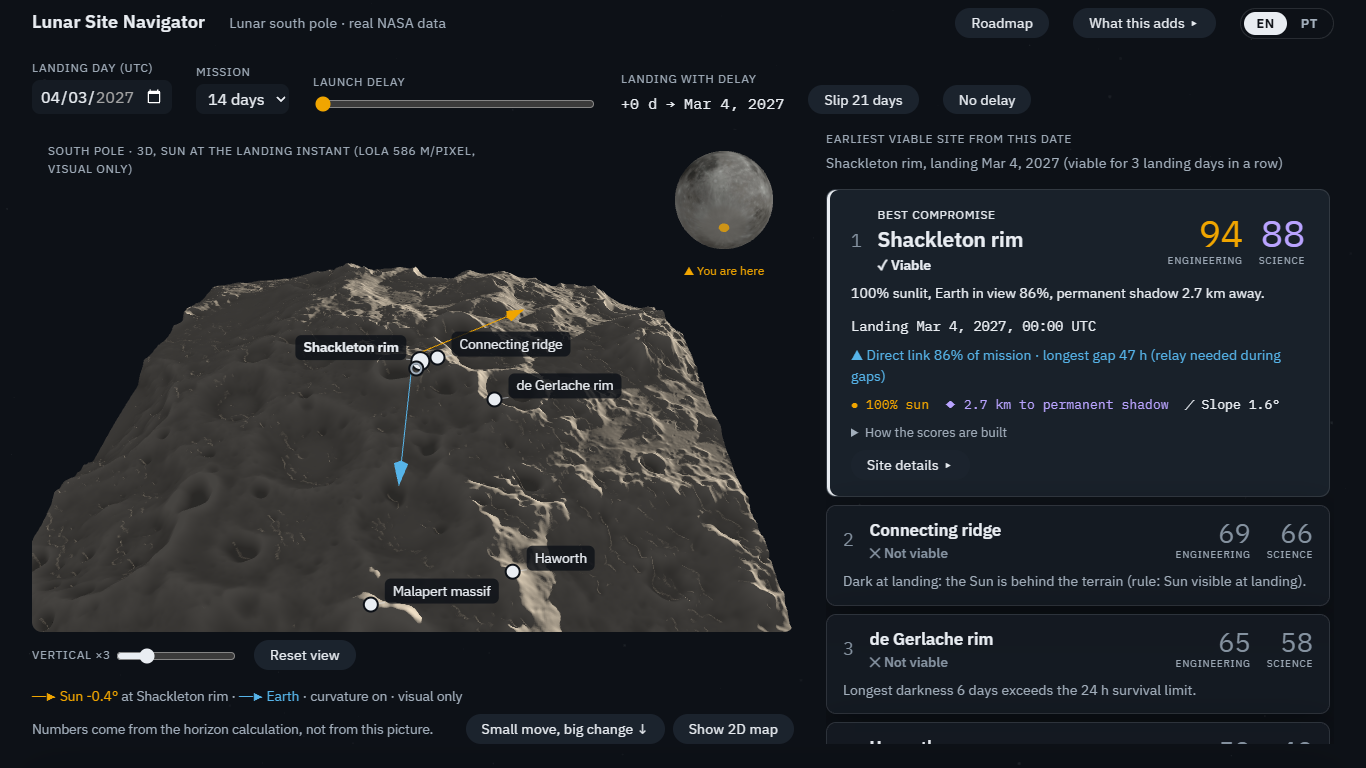
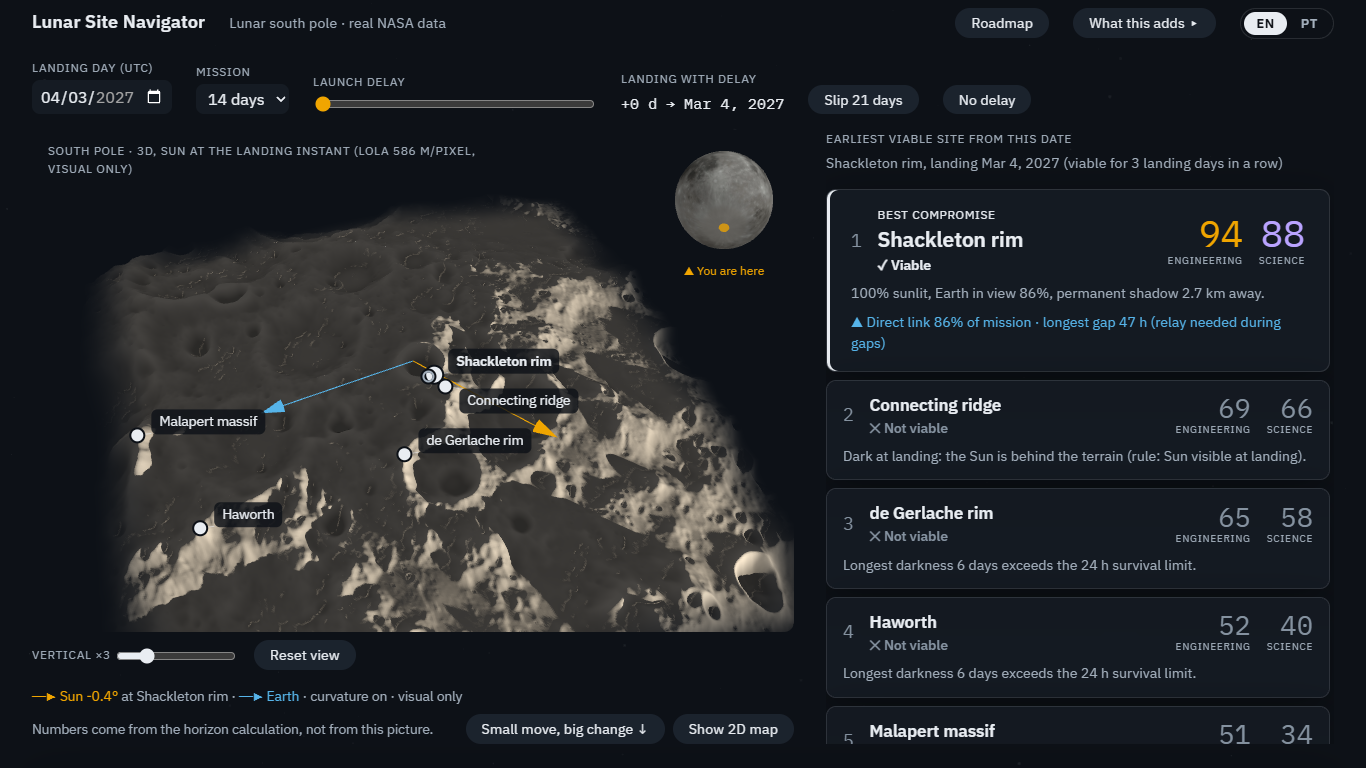
feat(web): best-card layers, map-card linking, animated slip; new screenshots (D49)
Visual review items 5-7, plus refreshed screenshots (1920x1080 and 1366x768,
EN and PT), including the panel after Slip 21 days and with a card hovered.

diff --git a/web/src/components/SouthPole3D.tsx b/web/src/components/SouthPole3D.tsx
@@ -54,12 +54,17 @@ const CAVITY_CONTRAST = 0.9;
 const EDGE_FADE_PX = 60;
 const LABEL_GAP_PX = 14;
 const GLOBE_PX = 116;
+/** Duration of the Sun/Earth direction change after a new date, ms. */
+const LIGHT_TRANSITION_MS = 900;
 
 interface Props {
   terrain: Terrain;
   sites: SiteSummary[];
   selectedId: string | null;
   bestId: string | null;
+  /** Site highlighted from a card or a marker (D49). */
+  hoveredId: string | null;
+  onHover: (id: string | null) => void;
   onSelect: (id: string) => void;
   sun: Vec3;
   earth: Vec3;
@@ -86,6 +91,8 @@ export function SouthPole3D(props: Props) {
     sites,
     selectedId,
     bestId,
+    hoveredId,
+    onHover,
     onSelect,
     sun,
     earth,
@@ -98,7 +105,6 @@ export function SouthPole3D(props: Props) {
   const labelRefs = useRef(new Map<string, HTMLButtonElement>());
   const dotRefs = useRef(new Map<string, HTMLSpanElement>());
   const lineRefs = useRef(new Map<string, SVGLineElement>());
-  const [hoveredId, setHoveredId] = useState<string | null>(null);
   const [exaggeration, setExaggeration] = useState(DEFAULT_EXAGGERATION);
   const exagRef = useRef(exaggeration);
 
@@ -326,21 +332,42 @@ export function SouthPole3D(props: Props) {
     renderRef.current();
   }, [exaggeration, terrain]);
 
-  // Light and arrows: Sun/Earth directions, elevation tangent scaled like the heights.
+  // Light and arrows: Sun/Earth directions, elevation tangent scaled like the heights. A new date
+  // (e.g. "Slip 21 days") turns them smoothly from the previous directions (D49); instant with
+  // reduced motion.
+  const shownDirs = useRef<{ sun: THREE.Vector3; earth: THREE.Vector3 } | null>(null);
   useEffect(() => {
     const st = stage.current;
     if (!st) return;
-    const s = exaggerateDirection(sun, exaggeration);
-    const e = exaggerateDirection(earth, exaggeration);
-    st.light.position.set(
-      s[0] * LIGHT_DISTANCE_KM,
-      s[1] * LIGHT_DISTANCE_KM,
-      s[2] * LIGHT_DISTANCE_KM,
-    );
-    st.light.intensity = SUN_INTENSITY;
-    st.sunArrow.setDirection(new THREE.Vector3(...s));
-    st.earthArrow.setDirection(new THREE.Vector3(...e));
-    renderRef.current();
+    const toSun = new THREE.Vector3(...exaggerateDirection(sun, exaggeration));
+    const toEarth = new THREE.Vector3(...exaggerateDirection(earth, exaggeration));
+    const apply = (s: THREE.Vector3, e: THREE.Vector3) => {
+      st.light.position.copy(s).multiplyScalar(LIGHT_DISTANCE_KM);
+      st.light.intensity = SUN_INTENSITY;
+      st.sunArrow.setDirection(s);
+      st.earthArrow.setDirection(e);
+      shownDirs.current = { sun: s.clone(), earth: e.clone() };
+      renderRef.current();
+    };
+    const from = shownDirs.current;
+    const reduce = window.matchMedia('(prefers-reduced-motion: reduce)').matches;
+    if (!from || reduce) {
+      apply(toSun, toEarth);
+      return;
+    }
+    const start = performance.now();
+    let frame = 0;
+    const step = (now: number) => {
+      const k = Math.min(1, (now - start) / LIGHT_TRANSITION_MS);
+      const ease = k * k * (3 - 2 * k);
+      apply(
+        from.sun.clone().lerp(toSun, ease).normalize(),
+        from.earth.clone().lerp(toEarth, ease).normalize(),
+      );
+      if (k < 1) frame = requestAnimationFrame(step);
+    };
+    frame = requestAnimationFrame(step);
+    return () => cancelAnimationFrame(frame);
   }, [sun, earth, exaggeration]);
 
   useEffect(() => {
@@ -413,10 +440,11 @@ export function SouthPole3D(props: Props) {
             s.purpose === 'sensitivity_demo' ? 'demo' : '',
             s.id === selectedId ? 'selected' : '',
             s.id === bestId ? 'best' : '',
+            s.id === hoveredId ? 'linked' : '',
           ].join(' ');
           const hover = {
-            onMouseEnter: () => setHoveredId(s.id),
-            onMouseLeave: () => setHoveredId(null),
+            onMouseEnter: () => onHover(s.id),
+            onMouseLeave: () => onHover(null),
           };
           return (
             <span key={s.id}>
@@ -438,8 +466,8 @@ export function SouthPole3D(props: Props) {
                 }}
                 className={`scene3d-label ${cls}${expanded(s.id) ? '' : ' collapsed'}`}
                 onClick={() => onSelect(s.id)}
-                onFocus={() => setHoveredId(s.id)}
-                onBlur={() => setHoveredId(null)}
+                onFocus={() => onHover(s.id)}
+                onBlur={() => onHover(null)}
                 aria-pressed={s.id === selectedId}
                 {...hover}
               >

diff --git a/web/src/components/SiteCard.tsx b/web/src/components/SiteCard.tsx
@@ -1,7 +1,9 @@
 /**
- * What: One site card, in two layers (D39). Compact: rank, name, verdict icon, the two scores and
- *   a one-line reason. Expanded (selected card): landing hour, next viable landing, direct-link
- *   line, key metrics, how each score is built and the details button. Display only.
+ * What: One site card, in two layers (D39, D49). Compact: rank, name, verdict icon, the two
+ *   scores and a one-line reason (the best compromise also shows its direct-link line).
+ *   Expanded (selected card): landing hour, next viable landing, direct-link line, key metrics,
+ *   how each score is built and the details button. Hover/focus highlights the matching marker
+ *   in the 3D view (onHover); Enter, Space or a click selects. Display only.
  * Roadmap stage: 5 — Interface (see docs/ROTEIRO.md).
  */
 import type { SiteEvaluation } from '../calc/evaluate';
@@ -19,8 +21,11 @@ interface Props {
   next: ViableWindow | null | undefined;
   rank: number;
   best: boolean;
-  /** Shows the second layer (the selected card, or the best compromise when none is). */
+  /** Shows the second layer (the selected card). */
   expanded: boolean;
+  /** Highlighted because its 3D marker is hovered (D49). */
+  linked: boolean;
+  onHover: (hovered: boolean) => void;
   onSelect: () => void;
   onOpen: () => void;
 }
@@ -32,6 +37,8 @@ export function SiteCard({
   rank,
   best,
   expanded,
+  linked,
+  onHover,
   onSelect,
   onOpen,
 }: Props) {
@@ -45,15 +52,25 @@ export function SiteCard({
     );
   }
   const { engineering, science, verdict: v, metrics: m, link } = evaluation;
-  const classes = ['card', 'glass', v.kind, best ? 'best' : '', expanded ? 'expanded' : ''].join(
-    ' ',
-  );
+  const classes = [
+    'card',
+    'glass',
+    v.kind,
+    best ? 'best' : '',
+    expanded ? 'expanded' : '',
+    linked ? 'linked' : '',
+  ].join(' ');
   const linkKey: MessageKey =
     link.kind === 'low'
       ? 'card.linkLow'
       : link.kind === 'gaps'
         ? 'card.linkGaps'
         : 'card.linkContinuous';
+  const linkLine = (
+    <p className={link.kind === 'low' ? 'link alert' : 'link earth'}>
+      {link.kind === 'low' ? '△' : '▲'} {t(linkKey, { p: link.fraction, g: link.longestGapHours })}
+    </p>
+  );
   return (
     <article
       className={classes}
@@ -65,9 +82,16 @@ export function SiteCard({
       tabIndex={0}
       aria-expanded={expanded}
       onClick={onSelect}
-      onFocus={(e) => {
-        if (e.target === e.currentTarget) onSelect();
+      onKeyDown={(e) => {
+        if (e.target === e.currentTarget && (e.key === 'Enter' || e.key === ' ')) {
+          e.preventDefault();
+          onSelect();
+        }
       }}
+      onMouseEnter={() => onHover(true)}
+      onMouseLeave={() => onHover(false)}
+      onFocus={() => onHover(true)}
+      onBlur={() => onHover(false)}
     >
       <div className="card-head">
         <span className="rank">{rank}</span>
@@ -92,6 +116,7 @@ export function SiteCard({
       <p className="reason" title={msg(v.reason)}>
         {msg(v.reason)}
       </p>
+      {(best || expanded) && linkLine}
       {expanded && (
         <div className="card-more">
           <p className="next">
@@ -104,10 +129,6 @@ export function SiteCard({
               {next ? t('card.next', { date: next.startMs, n: next.windowDays }) : t('card.noNext')}
             </p>
           )}
-          <p className={link.kind === 'low' ? 'link alert' : 'link earth'}>
-            {link.kind === 'low' ? '△' : '▲'}{' '}
-            {t(linkKey, { p: link.fraction, g: link.longestGapHours })}
-          </p>
           <div className="metrics">
             <span className="sun" title={t('card.sunTitle')}>
               ● {t('card.sun', { p: m.sunFraction })}

diff --git a/web/src/screens/Dashboard.tsx b/web/src/screens/Dashboard.tsx
@@ -42,6 +42,7 @@ export function Dashboard({ sites, data, terrain, inputs, onInputs, onOpenSite }
   const d = useEvaluations(pre, data, inputs);
   const [selectedId, setSelectedId] = useState<string | null>(null);
   const [view3d, setView3d] = useState(true);
+  const [hoveredId, setHoveredId] = useState<string | null>(null);
   const focusId = selectedId ?? d.now.bestId;
   const lightSite = sites.find((s) => s.id === focusId) ?? d.ranked[0] ?? sites[0];
   const lightData = lightSite ? data.get(lightSite.id) : undefined;
@@ -105,6 +106,8 @@ export function Dashboard({ sites, data, terrain, inputs, onInputs, onOpenSite }
                   sites={sites}
                   selectedId={selectedId}
                   bestId={d.now.bestId}
+                  hoveredId={hoveredId}
+                  onHover={setHoveredId}
                   onSelect={setSelectedId}
                   sun={lightDirs.sun}
                   earth={lightDirs.earth}
@@ -155,12 +158,17 @@ export function Dashboard({ sites, data, terrain, inputs, onInputs, onOpenSite }
                 return (
                   <li key={id} ref={flipRef(id)}>
                     <SiteCard
+                      // Remounts when the card becomes (or stops being) the best compromise, so
+                      // its entrance highlight plays after a slip (D49).
+                      key={id === d.now.bestId ? 'best' : 'other'}
                       site={site}
                       evaluation={d.now.sites.find((e) => e.siteId === id)}
                       next={d.next.has(id) ? (d.next.get(id) ?? null) : undefined}
                       rank={k + 1}
                       best={id === d.now.bestId}
-                      expanded={id === focusId}
+                      expanded={id === selectedId}
+                      linked={id === hoveredId}
+                      onHover={(on) => setHoveredId(on ? id : null)}
                       onSelect={() => setSelectedId(id)}
                       onOpen={() => onOpenSite(id)}
                     />

diff --git a/web/src/styles/app.css b/web/src/styles/app.css
@@ -1360,3 +1360,64 @@ svg text {
 .limits .facts {
   grid-template-columns: 200px 1fr;
 }
+
+/* ---- map <-> card link and slip feedback (D49) ---- */
+.dash .card.glass.linked {
+  background: var(--card-glass-2);
+  box-shadow:
+    inset 0 0 0 1px rgb(233 237 242 / 0.45),
+    var(--glass-shadow);
+}
+.dash .card.glass.best {
+  box-shadow:
+    inset 3px 0 0 var(--text),
+    var(--glass-shadow);
+  animation: best-in 1.2s ease-out;
+}
+.dash .card.glass.best.linked {
+  box-shadow:
+    inset 3px 0 0 var(--text),
+    inset 0 0 0 1px rgb(233 237 242 / 0.45),
+    var(--glass-shadow);
+}
+@keyframes best-in {
+  0% {
+    background: rgb(233 237 242 / 0.16);
+  }
+  100% {
+    background: var(--card-glass);
+  }
+}
+.scene3d-dot,
+.scene3d-label {
+  transition:
+    width var(--ease),
+    height var(--ease),
+    margin var(--ease),
+    background var(--ease),
+    box-shadow var(--ease);
+}
+.scene3d-dot.linked {
+  width: 18px;
+  height: 18px;
+  margin: -9px 0 0 -9px;
+  box-shadow:
+    0 0 0 2px var(--bg),
+    0 0 0 5px rgb(233 237 242 / 0.6);
+}
+.scene3d-label.linked {
+  background: var(--text);
+  color: var(--bg);
+}
+.scene3d-label.linked.selected {
+  color: var(--bg);
+  background: var(--sun);
+}
+.card .link {
+  font-size: 0.88rem;
+}
+/* Two values in one indicator (Shackleton rim · inner wall): one line, slightly smaller. */
+.stat-value.pair {
+  white-space: nowrap;
+  font-size: clamp(1.9rem, 2.6vw, 2.8rem);
+}

diff --git a/web/src/ui/useFlip.ts b/web/src/ui/useFlip.ts
@@ -1,11 +1,12 @@
 /**
- * What: FLIP animation for reordered children (cards move to their new place in ~300 ms).
+ * What: FLIP animation for reordered children (cards move to their new place in ~600 ms).
  *   Skipped when the user prefers reduced motion.
  * Roadmap stage: 5 — Interface (see docs/ROTEIRO.md).
  */
 import { useLayoutEffect, useRef } from 'react';
 
-const DURATION_MS = 300;
+/** Long enough to follow which card moved where after a slip (D49). */
+const DURATION_MS = 600;
 
 export function useFlip<T extends HTMLElement>(orderKey: string) {
   const refs = useRef(new Map<string, T>());
@@ -24,7 +25,7 @@ export function useFlip<T extends HTMLElement>(orderKey: string) {
         if (dx !== 0 || dy !== 0) {
           el.animate(
             [{ transform: `translate(${dx}px, ${dy}px)` }, { transform: 'translate(0, 0)' }],
-            { duration: DURATION_MS, easing: 'ease-out' },
+            { duration: DURATION_MS, easing: 'cubic-bezier(0.2, 0.8, 0.2, 1)' },
           );
         }
       }

diff --git a/web/scripts/screenshots.ts b/web/scripts/screenshots.ts
@@ -36,6 +36,18 @@ const SHOTS: { name: string; route: string; js?: string }[] = [
   { name: 'opening-end', route: '/', js: 'window.scrollTo(0, document.body.scrollHeight)' },
   { name: 'mission', route: '/mission' },
   {
+    // After "Slip 21 days" (first button of the controls): new best compromise on top.
+    name: 'mission-slip',
+    route: '/mission',
+    js: `document.querySelector('.controls .linkbtn').click()`,
+  },
+  {
+    // Mouse over the second card: its 3D marker is highlighted (D49).
+    name: 'mission-linked',
+    route: '/mission',
+    js: `document.querySelectorAll('.cards .card')[1].dispatchEvent(new MouseEvent('mouseover', { bubbles: true }))`,
+  },
+  {
     name: 'small-move',
     route: '/mission',
     js: `(() => { const d = document.getElementById('small-move'); d.open = true; d.scrollIntoView(); })()`,

diff --git a/web/src/screens/Intro.tsx b/web/src/screens/Intro.tsx
@@ -202,7 +202,7 @@ export function Intro({ ready }: Props) {
             <ul className="stats">
               {n.shackleton && (
                 <li>
-                  <span className="stat-value">
+                  <span className="stat-value pair">
                     {t('intro.statShackValue', {
                       a: n.shackleton.rimPct / PERCENT,
                       b: n.shackleton.wallPct / PERCENT,

diff --git a/docs/ROTEIRO.md b/docs/ROTEIRO.md
@@ -153,3 +153,4 @@ Legenda de status: `a fazer` · `em andamento` · `concluído` · `plano B` · `
 | 2026-11-14 | 6 | D45: comparação com as médias da NASA (Sol −0,5 a +4,1 p.p.; Terra −3,6 a +3,6 p.p. nos cinco locais), no painel e em `data/validation/COMPARISON.md`; nada ajustado |
 | 2026-11-14 | 5 | D46: fluxo do GitHub Pages (lint, formatação, testes, build, publicação) a partir da `main`; conferido localmente com `/NasaSpaceApps/`; falta ativar Pages com origem "GitHub Actions" e juntar na `main` |
 | 2026-11-14 | — | D47: repositório privado; GitHub Pages só manual; fluxo de verificação (`ci.yml`) a cada push; build portátil documentado. D48: regra permanente de fluxo de git. Junção de `stage-5-interface` na `main` |
+| 2026-11-14 | 5 | D49: acabamentos da revisão visual (anel do polo no globo, números que contam a história, 3D preenchendo a área com bordas esmaecidas, cartão do melhor compromisso em camadas, ligação mapa–cartões, transição do "Slip 21 days"); capturas refeitas |
